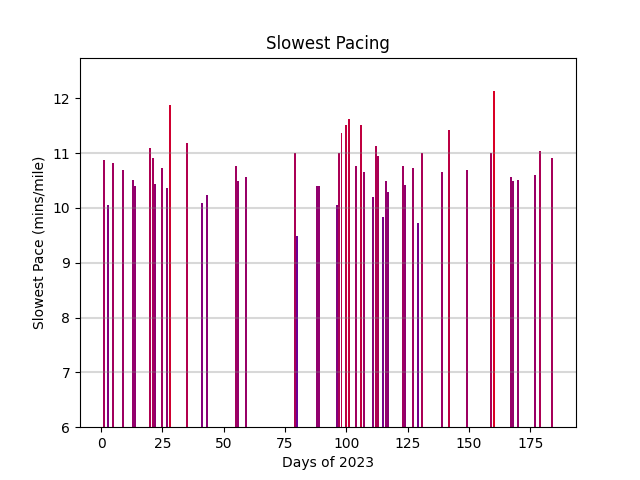
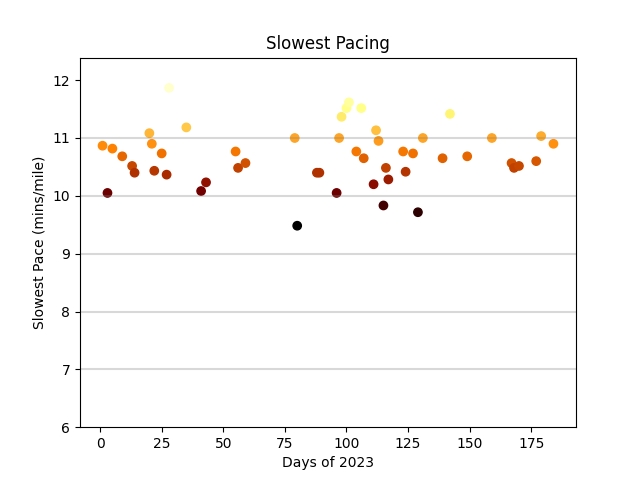
Rework plotting to have continuous color mapping

diff --git a/progress.py b/progress.py
@@ -5,8 +5,6 @@ import numpy as np
 import pandas as pd
 from datetime import date
 
-
-
 parser = argparse.ArgumentParser(description='Solve a sudoku! :D')
 parser.add_argument('-a', '--add', action='store_true', help='Add a new run!')
 args = parser.parse_args()
@@ -55,8 +53,6 @@ while(ndays > len(df.index)):
 
 df[["day", "miles", "average", "fastest", "slowest"]] = df[["day", "miles", "average", "fastest", "slowest"]].apply(pd.to_numeric)
 
-
-
 if args.add is True:
     print("Add a new run!")
     while True:
@@ -85,18 +81,13 @@ if args.add is True:
             print("Invalid input, try again!")
 
 df['cumulative_miles'] = df['miles'].cumsum()
-
-
 df['difference'] = df['day'] - df['cumulative_miles']
 
 for label in ['average', 'fastest', 'slowest']:
     df[label+'_mins'] = df[label]/60.0
 
-
 print(f"Days of 2023:\t{ndays}")
 print(f"Current Miles:\t{np.max(df['cumulative_miles'])}")
-
-
 
 maximum = max(np.max(df['day']), np.max(df['cumulative_miles']))
 
@@ -160,17 +151,17 @@ my_colormap = mplc.LinearSegmentedColormap('my_colormap',cdict,256)
 
 if plot_difference:
     diff = []
-    plt.axhline(10, color='gray', alpha=0.2)
-    plt.axhline(20, color='gray', alpha=0.2)
-    plt.axhline(30, color='gray', alpha=0.2)
-    plt.bar(df_nonzero['day'], df_nonzero['difference'], color=colormap_difference(df_nonzero['difference']))
-    plt.bar(df_zero['day'], df_zero['difference'], color=colormap_difference(df_zero['difference']), alpha=0.25)
+    for i in range(0, 31, 10):
+        plt.axhline(i, color='gray', alpha=0.2)
+    plt.bar(df['day'], df['difference'], color=my_colormap(df['difference']/50.0))
+
     worst = max(df['difference'])
     worst_desc = 'behind' if worst > 0 else 'ahead'
     best = min(df['difference'])
     best_desc = 'behind' if best > 0 else 'ahead'
     today = df['difference'].iloc[-1]
     today_desc = 'behind' if today > 0 else 'ahead'
+
     plt.axhline(0, color='b', label=f'Goal\nWorst: {abs(worst)} {worst_desc}\nBest: {abs(best)} {best_desc}\nToday: {abs(today)} {today_desc}')
     plt.xlabel('Days of 2023')
     plt.ylabel('# Miles Away from Goal')
@@ -185,26 +176,15 @@ def pacing_lines():
     for i in range(7, 12):
         plt.axhline(i,  color='gray', alpha=0.3)
 
-def colormap(pace):
-    # range from (1,0,0) to (0,1,0)
-    # max: 12 min: 6
-    # 6 -> 0 -> (0,0,1) (blue)
-    # 12 -> 1 -> (1,0,0) (red)
-    fastest = 7
-    slowest = 13
-    scaled = (np.array(pace) - fastest)/(slowest-fastest)
-    red = scaled
-    blue = 1 - red
-    return [(red[i], 0, blue[i]) for i in range(len(scaled))]
-
-
 plot_pacing = True
 
 if plot_pacing:
 
     for label in ['average', 'fastest', 'slowest']:
         pacing_lines()
-        plt.bar(df['day'], df[label+'_mins'], color=colormap(df[label+'_mins']))
+
+        # continuous colors
+        plt.scatter(df['day'], df[label+'_mins'], c=df[label+'_mins'], cmap=my_colormap)
         plt.ylim(bottom=6.0)
         plt.xlabel('Days of 2023')
         plt.ylabel(label.capitalize()+' Pace (mins/mile)')
